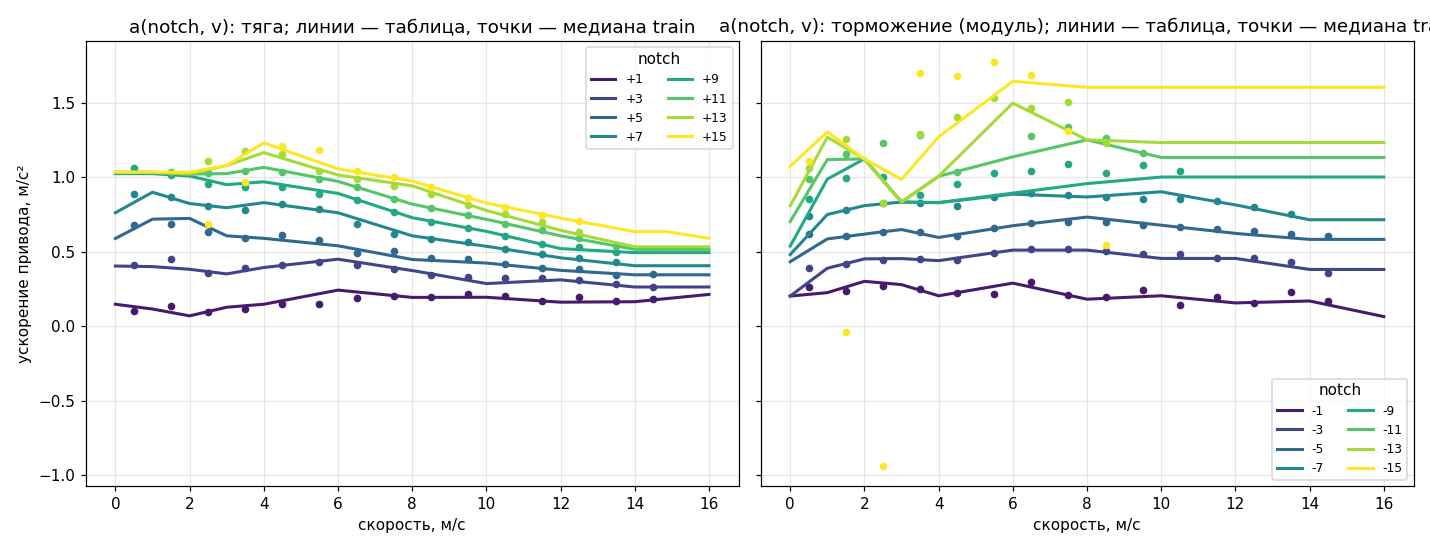
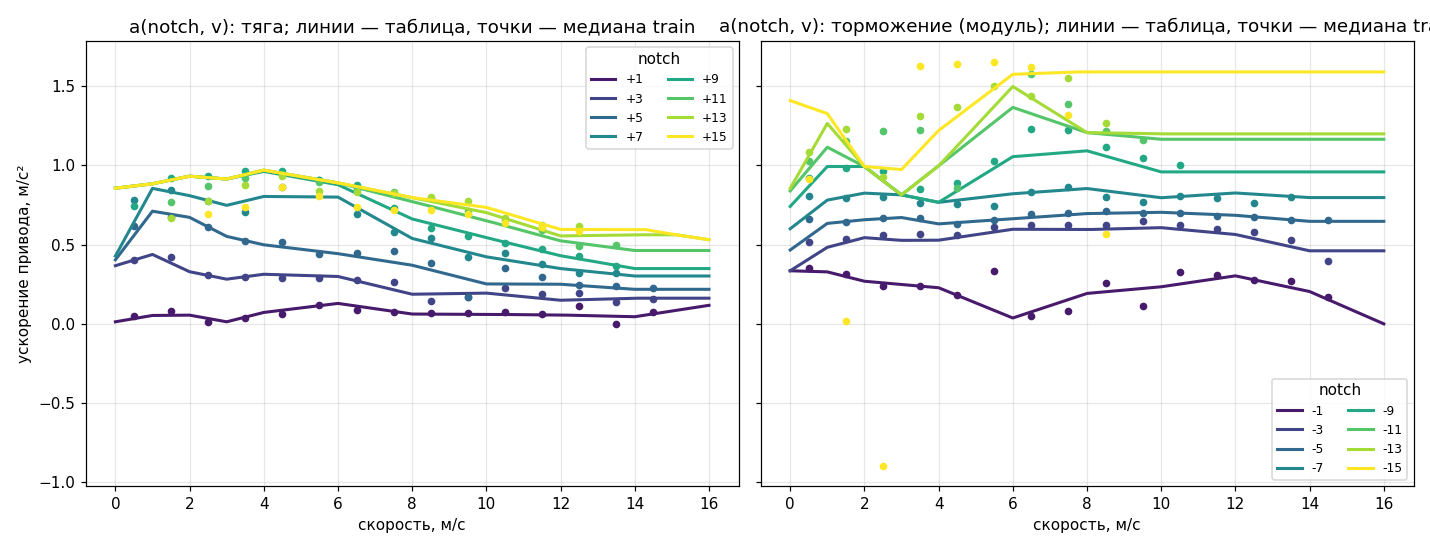
ident: подгонка по умолчанию без уклона (контракт model_accel без уклона), --grade — вариант для уклона онлайн; абляция в отчёте; тест, что holdout не подгоняется

diff --git a/notebooks/identification/identify.py b/notebooks/identification/identify.py
@@ -1,4 +1,4 @@
-"""Drive model identification on train bags (issue #9, D-030).
+"""Drive model identification on train bags (issue #9, D-032; table schema D-029).
 
     .venv/bin/python notebooks/identification/identify.py                  # report + figures
     .venv/bin/python notebooks/identification/identify.py --write-params   # + params.yaml
@@ -68,10 +68,10 @@ def true_speed(b, fallback_ratio):
     return b.v * k, b.a * k
 
 
-def pooled(bags, fallback_ratio, delay):
+def pooled(bags, fallback_ratio, delay, need_grade=True):
     v, a, g, n, coast = [], [], [], [], []
     for b in bags:
-        ok = di.usable(b)
+        ok = di.usable(b, need_grade)
         if not ok.any():
             continue
         vb, ab = true_speed(b, fallback_ratio)
@@ -84,19 +84,27 @@ def pooled(bags, fallback_ratio, delay):
             np.concatenate(coast))
 
 
-def explained(v, y, n):
-    """Share of variance of y explained by the mean in (notch, 1 m/s speed bin) cells."""
+def _cell_residual(v, y, n):
+    """y minus its mean in (notch, 1 m/s speed bin) cells."""
     key = (n + 64) * 64 + np.clip(v.astype(int), 0, 63)
     _, inv, cnt = np.unique(key, return_inverse=True, return_counts=True)
-    mean = np.bincount(inv, weights=y) / cnt
-    return float(1 - np.var(y - mean[inv]) / np.var(y))
+    return y - (np.bincount(inv, weights=y) / cnt)[inv]
 
 
-def fit_delay(bags, fallback_ratio):
+def explained(v, y, n):
+    """Share of variance of y explained by the mean in (notch, 1 m/s speed bin) cells."""
+    return float(1 - np.var(_cell_residual(v, y, n)) / np.var(y))
+
+
+def cell_resid_std(v, y, n):
+    return float(np.std(_cell_residual(v, y, n)))
+
+
+def fit_delay(bags, fallback_ratio, use_grade=False):
     scores = []
     for d in DELAYS:
-        v, a, g, n, _ = pooled(bags, fallback_ratio, d)
-        scores.append(explained(v, a + di.G * g, n))
+        v, a, g, n, _ = pooled(bags, fallback_ratio, d, need_grade=use_grade)
+        scores.append(explained(v, a + di.G * g if use_grade else a, n))
     # the 10 Hz grid resolves the delay only to DT: equal scores form a plateau, take its middle
     scores = np.asarray(scores)
     top = DELAYS[scores >= scores.max() - DELAY_TIE]
@@ -116,13 +124,15 @@ def fit_tables(v, y, n, grid):
     return di.fill_monotone(trac), di.fill_monotone(brake), counts
 
 
-def identify(bags):
+def identify(bags, use_grade=False):
     grid = np.asarray(SPEED_GRID)
     scales = wheel_scales(bags)
     fallback = float(np.mean([scales['front']['ratio_median'], scales['rear']['ratio_median']]))
-    delay, delay_scores = fit_delay(bags, fallback)
-    v, a, g, n, coast = pooled(bags, fallback, delay)
-    y_ng = a + di.G * g                                  # accel with the grade removed
+    delay, delay_scores = fit_delay(bags, fallback, use_grade)
+    v, a, g, n, coast = pooled(bags, fallback, delay, need_grade=use_grade)
+    # use_grade: targets without the grade, for a model that gets the grade online (map z);
+    # default (the contract model_accel(notch, v) has no grade): tables absorb the mean grade
+    y_ng = a + di.G * g if use_grade else a
     c = di.fit_resistance(v[coast & (v > 1.0)], y_ng[coast & (v > 1.0)])
     y = y_ng + di.resistance(v, c)                       # = sign(n) A(|n|, v)
     trac, brake, counts = fit_tables(v, y, n, grid)
@@ -143,8 +153,12 @@ def identify(bags):
              'accel_residual_by_mode': {m: float(np.std(resid[s])) for m, s in
                                         (('traction', n > 0), ('coast', n == 0), ('brake', n < 0))}}
     return {'params': p, 'wheel': scales, 'delay_s': delay, 'delay_scores': delay_scores,
-            'n_samples': int(len(v)), 'n_coast': int((coast & (v > 1.0)).sum()), 'notch_counts': counts,
-            'explained_notch_speed': explained(v, y_ng, n), 'noise': noise,
+            'n_samples': int(len(v)), 'n_bags': len(bags), 'n_coast': int((coast & (v > 1.0)).sum()), 'notch_counts': counts,
+            'use_grade': use_grade,
+            'cell_resid_std': {'grade_removed': cell_resid_std(v[np.isfinite(g)], (a + di.G * g)[np.isfinite(g)], n[np.isfinite(g)])
+                               if np.isfinite(g).any() else None,
+                               'no_grade': cell_resid_std(v, a, n)},
+            'noise': noise,
             'abs_drive_accel_p999': tail}
 
 
@@ -196,8 +210,9 @@ def plots(res, bags, fallback_ratio):
     import matplotlib.pyplot as plt
     FIG_DIR.mkdir(parents=True, exist_ok=True)
     p, grid = res['params'], np.asarray(SPEED_GRID)
-    v, a, g, n, coast = pooled(bags, fallback_ratio, res['delay_s'])
-    y = a + di.G * g + di.resistance(v, p['c'])
+    v, a, g, n, coast = pooled(bags, fallback_ratio, res['delay_s'], need_grade=res['use_grade'])
+    a_fit = a + di.G * g if res['use_grade'] else a       # the same target as the fit
+    y = a_fit + di.resistance(v, p['c'])
     fig, axes = plt.subplots(1, 2, figsize=(13, 5), sharey=True)
     vv = np.linspace(0, 16, 161)
     cmap = plt.get_cmap('viridis')
@@ -225,12 +240,12 @@ def plots(res, bags, fallback_ratio):
 
     fig, ax = plt.subplots(figsize=(7, 4.5))
     s = coast & (v > 1.0)
-    ax.plot(v[s][::5], -(a + di.G * g)[s][::5], '.', ms=1.5, alpha=0.3, label='выбег, train (каждая 5-я точка)')
+    ax.plot(v[s][::5], -a_fit[s][::5], '.', ms=1.5, alpha=0.3, label='выбег, train (каждая 5-я точка)')
     ax.plot(vv, di.resistance(vv, p['c']), 'r', lw=2,
             label='c0 + c1 v + c2 v² = %.4f + %.5f v + %.6f v²' % p['c'])
     ax.set_ylim(-0.4, 0.4)
     ax.set_xlabel('скорость, м/с')
-    ax.set_ylabel('замедление без уклона, м/с²')
+    ax.set_ylabel('замедление на выбеге' + (' без уклона' if res['use_grade'] else '') + ', м/с²')
     ax.grid(alpha=0.3)
     ax.legend(fontsize=8)
     fig.tight_layout()
@@ -251,18 +266,24 @@ def md_report(res, val, check):
              f"| предел сцепления `adhesion_accel_mps2` = максимум таблиц | {p['adhesion_accel_mps2']} м/с² "
              f"(хвост p99,9 \\|a\\| в данных {res['abs_drive_accel_p999']:.2f} — шум и юз) |",
              f"| удельная мощность `traction_power_w_per_kg` | {p['traction_power_w_per_kg']} Вт/кг |",
-             f"| доля дисперсии ускорения (без уклона), объяснённая ячейкой notch × v | {res['explained_notch_speed']:.3f} |",
-             f"| std невязки ускорения: всё / тяга / выбег / торможение | {res['noise']['accel_residual_std_mps2']:.3f} / "
+             f"| подгонка | {'уклон вычтен из целей (--grade)' if res['use_grade'] else 'без уклона: таблицы впитывают средний уклон'} |",
+             f"| std ускорения вокруг среднего ячейки позиция × v: без уклона / уклон вычтен | "
+             f"{res['cell_resid_std']['no_grade']:.3f} / {res['cell_resid_std']['grade_removed']:.3f} м/с² |",
+             f"| bag: всего / с отношением колесо/GNSS | {res['n_bags']} / {res['wheel']['front']['bags']} |",
+             f"| std невязки модели: всё / тяга / выбег / торможение | {res['noise']['accel_residual_std_mps2']:.3f} / "
              + ' / '.join(f"{res['noise']['accel_residual_by_mode'][m]:.3f}" for m in ('traction', 'coast', 'brake')) + ' м/с² |',
              f"| std (перед − зад) без проскальзывания | {res['noise']['front_minus_rear_std_mps']:.3f} м/с |",
-             '', 'Приёмка: окна 10 с, шаг 5 с, интегрирование модели от измеренной скорости; RMSE скорости в окне, м/с',
-             '', '| Набор | уклон | окон | модель, медиана | модель, среднее | модель, p90 | a = 0, медиана | a = 0, среднее | модель лучше, доля окон |',
+             '', 'Приёмка: окна 10 с, шаг 5 с, интегрирование модели от измеренной скорости; RMSE скорости в окне, м/с.',
+             'Подгонка — таблицы с уклоном в целях или без; симуляция — уклон из GNSS bag подаётся в модель или нет.',
+             '', '| Набор | подгонка | симуляция | окон | модель, медиана | модель, среднее | модель, p90 | a = 0, медиана | модель лучше, доля окон |',
              '|---|---|---|---|---|---|---|---|---|']
-    for split, rows in (('train', val),) + ((('holdout (проверка)', check),) if check else ()):
-        for k, r in rows.items():
-            lines.append(f"| {split} | {'из GNSS' if k == 'with_grade' else 'нет'} | {r['windows']} | {r['model_rmse_median']:.3f} | "
-                         f"{r['model_rmse_mean']:.3f} | {r['model_rmse_p90']:.3f} | {r['zero_rmse_median']:.3f} | "
-                         f"{r['zero_rmse_mean']:.3f} | {r['model_better_share']:.2f} |")
+    for split, fits in (('train', val),) + ((('holdout (проверка)', check),) if check else ()):
+        for fit, rows in fits.items():
+            for k, r in rows.items():
+                lines.append(f"| {split} | {'с уклоном' if fit == 'grade' else 'без уклона'} | "
+                             f"{'уклон из GNSS' if k == 'with_grade' else 'без уклона'} | {r['windows']} | "
+                             f"{r['model_rmse_median']:.3f} | {r['model_rmse_mean']:.3f} | {r['model_rmse_p90']:.3f} | "
+                             f"{r['zero_rmse_median']:.3f} | {r['model_better_share']:.2f} |")
     return '\n'.join(lines)
 
 
@@ -273,22 +294,26 @@ def main(argv=None):
     ap.add_argument('--jobs', type=int, default=max(1, min(8, (os.cpu_count() or 2) - 1)))
     ap.add_argument('--write-params', action='store_true')
     ap.add_argument('--no-plots', action='store_true')
+    ap.add_argument('--grade', action='store_true',
+                    help='писать таблицы с уклоном, вычтенным из целей (для модели, получающей уклон онлайн)')
     args = ap.parse_args(argv)
     if hasattr(sys.stdout, 'reconfigure'):
         sys.stdout.reconfigure(encoding='utf-8')
     bags = [b for b in load_split(args.split, args.jobs) if len(b.t)]
-    res = identify(bags)
+    fits = {'no_grade': identify(bags, use_grade=False), 'grade': identify(bags, use_grade=True)}
+    res = fits['grade' if args.grade else 'no_grade']
     fallback = float(np.mean([res['wheel']['front']['ratio_median'], res['wheel']['rear']['ratio_median']]))
-    val = validate(bags, res['params'], res['delay_s'], fallback)
+    val = {k: validate(bags, f['params'], f['delay_s'], fallback) for k, f in fits.items()}
     check = None
     if args.check_split:
         cb = [b for b in load_split(args.check_split, args.jobs) if len(b.t)]
-        check = validate(cb, res['params'], res['delay_s'], fallback)
+        check = {k: validate(cb, f['params'], f['delay_s'], fallback) for k, f in fits.items()}
     commit = subprocess.run(['git', '-C', str(di.REPO), 'rev-parse', '--short', 'HEAD'],
                             capture_output=True, text=True).stdout.strip() or 'nogit'
     out = di.evbag.out_dir() / 'ident' / commit
     out.mkdir(parents=True, exist_ok=True)
     (out / 'ident.json').write_text(json.dumps({'split': args.split, 'bags': len(bags), **res,
+                                                'alternative': fits['no_grade' if args.grade else 'grade'],
                                                 'validation': val, 'check': check},
                                                ensure_ascii=False, indent=1, default=list), encoding='utf-8')
     if not args.no_plots:

diff --git a/notebooks/identification/tests/test_drive_ident.py b/notebooks/identification/tests/test_drive_ident.py
@@ -25,14 +25,14 @@ def true_params(power=9.0, adhesion=1.3):
             'adhesion_accel_mps2': adhesion, 'traction_power_w_per_kg': power, 'c': C_TRUE}
 
 
-def synthetic_bag(p, delay, seconds=3000.0, grade_amp=0.02, noise=0.0, seed=0):
+def synthetic_bag(p, delay, seconds=3000.0, grade_amp=0.02, noise=0.0, seed=0, grade_const=0.0):
     """A tram driven by random notch steps through the true model with a known delay and grade."""
     rng = np.random.default_rng(seed)
     t = np.arange(0.0, seconds, di.DT)
     cmd_t = np.arange(0.0, seconds, 0.05)
     steps = np.repeat(rng.integers(-8, 16, size=len(cmd_t) // 100 + 1), 100)[:len(cmd_t)]
     notch = di.notch_at(cmd_t, steps, t - di.DT / 2 - delay)     # at the middle of step k-1 -> k
-    grade = grade_amp * np.sin(t / 60.0)
+    grade = grade_const + grade_amp * np.sin(t / 60.0)
     v = np.empty(len(t))
     v[0] = 5.0
     for k in range(1, len(t)):
@@ -99,7 +99,7 @@ def test_grade_from_a_linear_ramp():
 def test_identify_recovers_delay_resistance_and_tables():
     p = true_params()
     bags = [synthetic_bag(p, delay=0.5, seed=s) for s in range(3)]
-    res = ident.identify(bags)
+    res = ident.identify(bags, use_grade=True)
     assert res['delay_s'] == pytest.approx(0.5, abs=di.DT)       # resolution of the 10 Hz grid
     assert res['params']['c'] == pytest.approx(C_TRUE, abs=5e-3)
     notches = np.arange(ident.NOTCH_MAX + 1)[:, None]
@@ -111,6 +111,19 @@ def test_identify_recovers_delay_resistance_and_tables():
     br = np.array(res['params']['brake_accel_table']).reshape(ident.NOTCH_MAX + 1, -1)
     err = np.abs(br - 0.1 * notches)[1:9, cols]                   # brake notches -1..-8 were driven
     assert np.median(err) < 0.015 and err.max() < 0.08
+
+
+def test_default_fit_ignores_grade_and_absorbs_a_constant_slope():
+    # the contract model_accel(notch, v) has no grade: by default the fit does not use it, so a
+    # constant uphill of 1 % shows up as extra resistance g * 0.01; with --grade it is removed
+    p = true_params()
+    bags = [synthetic_bag(p, delay=0.3, seed=s, grade_amp=0.0, grade_const=0.01) for s in range(2)]
+    c_grade = ident.identify(bags, use_grade=True)['params']['c']
+    assert c_grade == pytest.approx(C_TRUE, abs=5e-3)
+    for b in bags:
+        b.grade[:] = np.nan                                        # without any GNSS grade...
+    c0 = ident.identify(bags)['params']['c']                       # ...the default fit still runs
+    assert di.resistance(5.0, c0) == pytest.approx(di.resistance(5.0, C_TRUE) + di.G * 0.01, abs=0.01)
 
 
 def test_model_beats_constant_speed_on_windows():
@@ -141,6 +154,22 @@ def test_extract_converts_units_and_accel():
     assert np.nanmedian(s.a) == pytest.approx(1.0, abs=0.01)
     assert np.isnan(s.grade).all() and np.isnan(s.ratio_front)       # no GNSS
     assert s.valid.all() and set(s.cmd_n) == {7}
+
+
+def test_check_split_is_never_fitted(monkeypatch, tmp_path):
+    # D-011: the check split (holdout) goes only to validate(), never to identify()
+    p = true_params()
+    train = [synthetic_bag(p, delay=0.3, seconds=600.0, seed=s) for s in range(2)]
+    check = [synthetic_bag(p, delay=0.3, seconds=600.0, seed=9)]
+    check[0].name = 'check'
+    monkeypatch.setattr(ident, 'load_split', lambda split, jobs: check if split == 'holdout' else train)
+    monkeypatch.setattr(di.evbag, 'out_dir', lambda: tmp_path)
+    fitted = []
+    real_identify = ident.identify
+    monkeypatch.setattr(ident, 'identify',
+                        lambda bags, **kw: fitted.extend(b.name for b in bags) or real_identify(bags, **kw))
+    assert ident.main(['--check-split', 'holdout', '--no-plots', '--jobs', '1']) == 0
+    assert fitted and 'check' not in fitted
 
 
 def test_written_params_pass_the_contract(tmp_path):

diff --git a/notebooks/identification/drive_ident.py b/notebooks/identification/drive_ident.py
@@ -1,6 +1,6 @@
 """Identification of the drive model (issue #9): pure functions over per-bag samples.
 
-Model identified here (D-029 schema, D-030):
+Model identified here (D-029 schema, D-032):
     a = sign(n) * A(|n|, v) - (c0 + c1 v + c2 v^2) - g * grade,   n = notch(t - delay)
     A = traction table for n > 0 (capped by adhesion and P/(m v)), brake table for n < 0.
 The grade term is removed from the training targets with GNSS altitude (offline only, train
